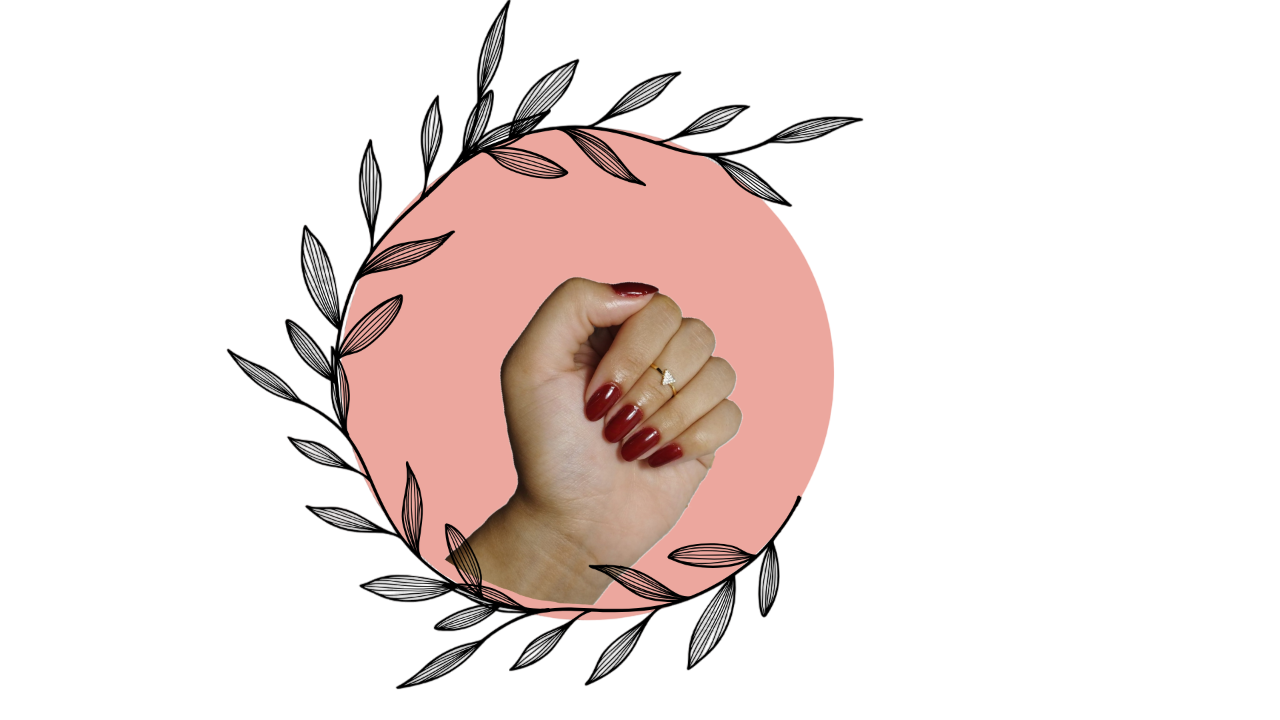
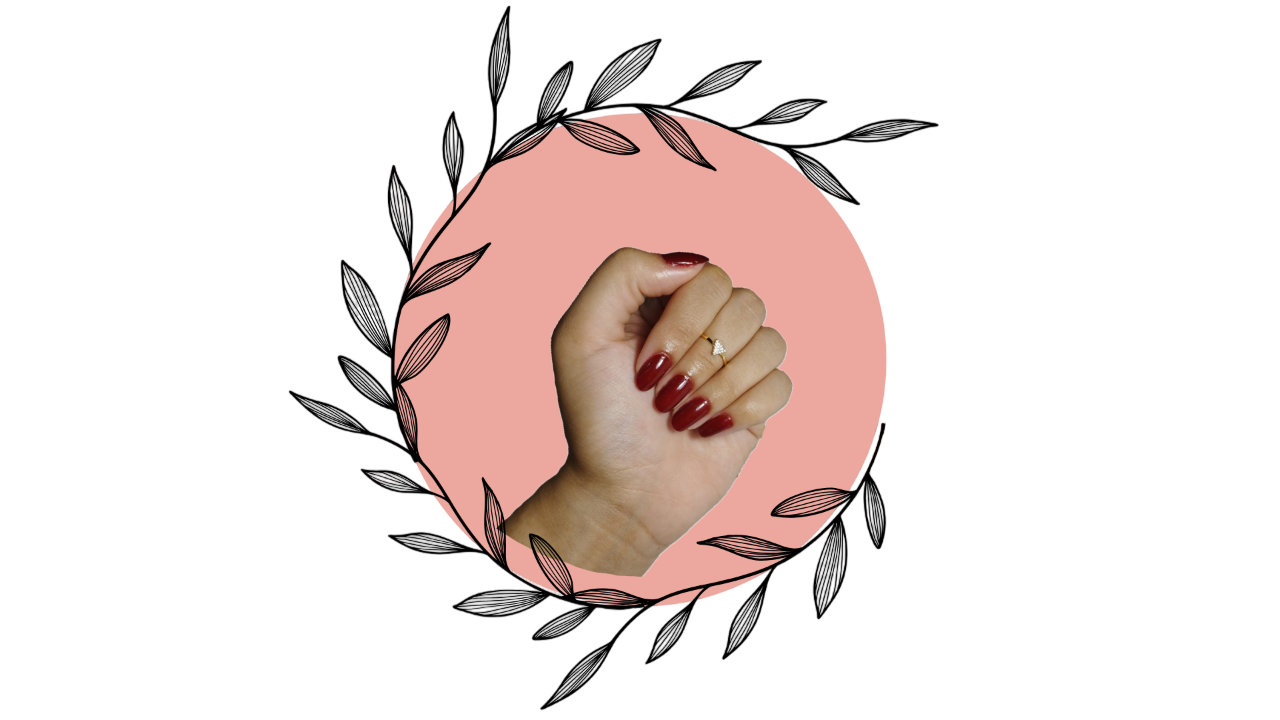
alguns ajustes de responsividade

Changed region(s): [[0.1562, 0.0, 0.75, 0.9778]]

diff --git a/src/components/Serviços/Servicos.jsx b/src/components/Serviços/Servicos.jsx
@@ -3,7 +3,7 @@ import 'bootstrap/dist/css/bootstrap.min.css'
 import 'bootstrap'
 function Servicos(){
     return (
-        <>g-col-6 
+        <>
         <div> 
             <h1 className={` m-5 ${styles.meusServicos}`}>
                 Meus Serviços
@@ -12,7 +12,7 @@ function Servicos(){
         <div className="grid  m-5 p-5">
             <div className='row'>
                 
-                    <div className="col-6  mt-5">
+                    <div className="col-12 col-md-6 col-sm-12 mt-5">
                         <img className={styles.imgServicos} src="./src/assets/images/manicure.png" alt="manicure icone" />
                         <h2 className={styles.h2SemP}>
                             Manicure
@@ -21,7 +21,7 @@ function Servicos(){
                             R$35,00
                         </p>
                     </div>
-                    <div className="col-6  mt-5 ">
+                    <div className="col-12 col-md-6  mt-5 ">
                         <img className={styles.imgServicos} src="./src/assets/images/pedicure.png" alt="pedicure icone" />
                         <h2 className={styles.h2SemP}>
                             Pedicure
@@ -34,8 +34,8 @@ function Servicos(){
             </div>
         </div>
         <div className="grid m-5">
-            <div className='row row-cols-2'>
-                <div className="g-col-6 g-col-md-12 mt-5 d-flex flex-column align-items-center text-center">
+            <div className='row'>
+                <div className="col-12 col-md-6  mt-5 d-flex flex-column align-items-center text-center">
                     <img className={styles.imgServicos} src="./src/assets/images/spadospes.png" alt="manicure icone" />
                      <div className={`d-flex flex-column align-items-center ${styles.divTxtColorido}`}>
                         <h2 className={styles.h2ComP}>
@@ -49,7 +49,7 @@ function Servicos(){
                             </p>
                     </div>
                 </div>
-                <div className="g-col-6 g-col-md-12 mt-5 d-flex flex-column align-items-center  text-center">
+                <div className="col-12 col-md-6 mt-5 d-flex flex-column align-items-center  text-center">
                     <img className={styles.imgServicos} src="./src/assets/images/pe.png" alt="pedicure icone" />
                         <div className={` d-flex flex-column align-items-center  ${styles.divTxtColorido2}`}>
                             <h2 className={styles.h2ComP}>

diff --git a/src/components/Diferenciais/Diferenciais.jsx b/src/components/Diferenciais/Diferenciais.jsx
@@ -10,7 +10,7 @@ function  Diferenciais() {
         
         <div className={`grid ${styles.diferenciaisContainer}`}>
             <div className='row row-cols-2'>
-                <div className="g-col-6 mt-5 d-flex flex-column align-items-center text-center">
+                <div className="col-6 col-sm-12 mt-5 d-flex flex-column align-items-center text-center">
                     <img className={styles.imgDiferenciais} src="./src/assets/images/materiais.png" alt="manicure icone" />
                      <div className={`d-flex flex-column align-items-center `}>
                         <h2 className={styles.h2Diferenciais}>
@@ -21,7 +21,7 @@ function  Diferenciais() {
                         </p>
                     </div>
                 </div>
-                <div className="g-col-6 mt-5 d-flex flex-column align-items-center  text-center">
+                <div className="col-6 col-sm-12 mt-5 d-flex flex-column align-items-center  text-center">
                     <img className={styles.imgDiferenciais} src="./src/assets/images/cuidado-pes.png" alt="pedicure icone" />
                         <div className={` d-flex flex-column align-items-center`}>
                             <h2 className={styles.h2Diferenciais}>

diff --git a/src/components/BemVinda/BemVinda.jsx b/src/components/BemVinda/BemVinda.jsx
@@ -3,11 +3,11 @@ function BemVinda() {
     return(
         <>
         <div className={`grid d-flex justify-content-center align-items-center   ${styles.containerBemVinda}`}> 
-            <div className="row row-cols-2 ">
-                <div className="g-col-6">
+            <div className={`row ${styles.elementos}`}>
+                <div className={`col-12 col-md-6`}>
                     <img className={styles.imgBemVinda} src="./src/assets/images/design-entrada.png" alt="" />
-                    </div>
-                    <div className={`${styles.txtBtn}`}>
+                </div>
+                    <div className={`col-12 col-md-6 ${styles.txtBtn}`}>
                         <h1>Cris Luna</h1>
                         <p>Escolha seu bem-estar. Escolha Cris Luna.</p>
                         <button className={styles.conhecerBtn}>Conhecer</button>

diff --git a/src/components/BemVinda/BemVinda.module.css b/src/components/BemVinda/BemVinda.module.css
@@ -39,3 +39,33 @@ p {
     border: black;
     border-radius: 5px;
 }
+
+
+
+@media (max-width: 1400px) {
+    .imgBemVinda {
+        width: 300px;
+        height: 150px;
+        margin-right: 0px;
+    }
+
+    .containerBemVinda {
+        height: 150vh;
+    }
+    
+    .elementos{
+        display: flex;
+        flex-direction: column;
+        justify-content: center;
+        align-items: center;
+    }
+    
+    
+    .txtBtn {
+        display: flex;
+        flex-direction: column;
+        margin-top: 100px;
+    }
+      
+}
+
